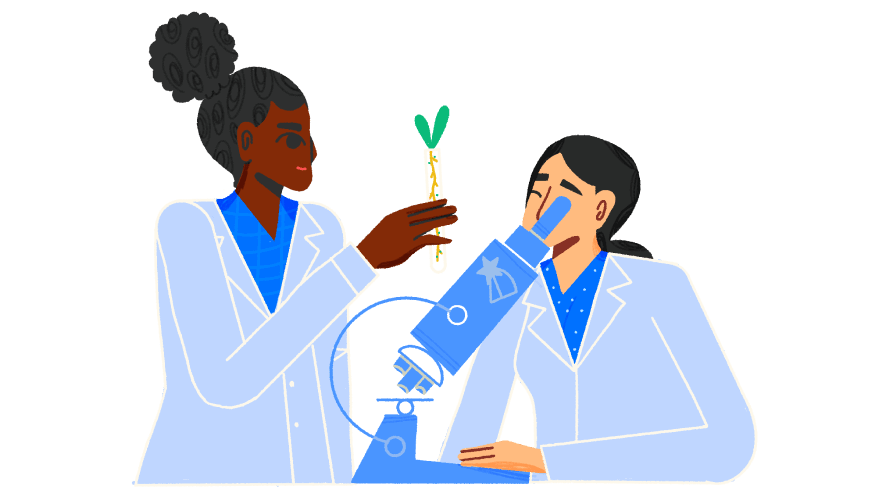
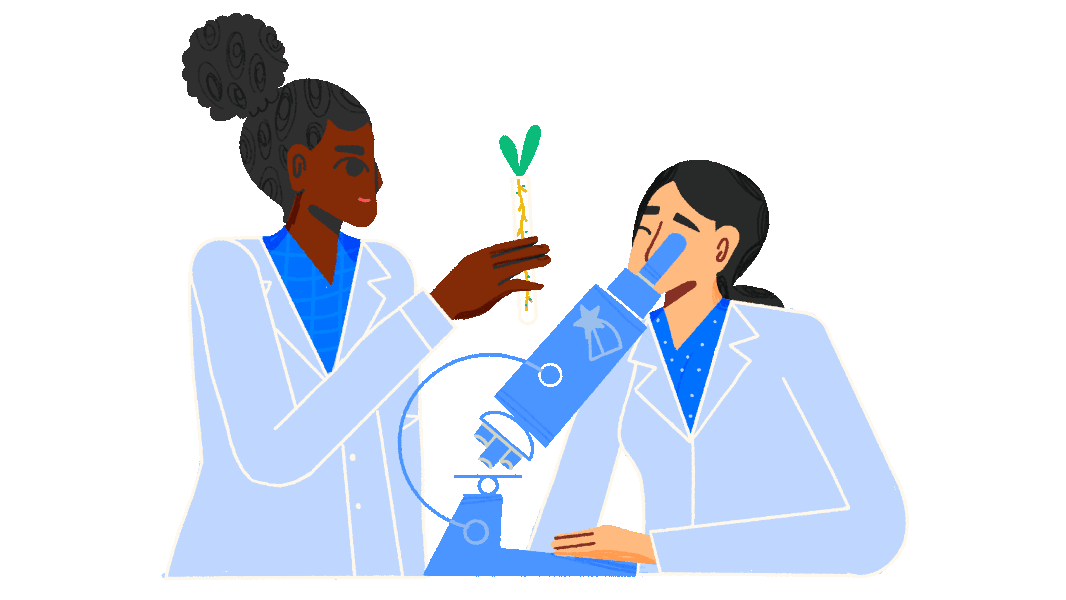
Update meeting type illustrations

diff --git a/packages/client/components/MeetingCard.tsx b/packages/client/components/MeetingCard.tsx
@@ -83,7 +83,7 @@ const MeetingImgBackground = styled.div<{meetingType: keyof typeof BACKGROUND_CO
     display: 'block',
     position: 'absolute',
     top: 0,
-    bottom: '4px',
+    bottom: '6px',
     width: '100%'
   })
 )
